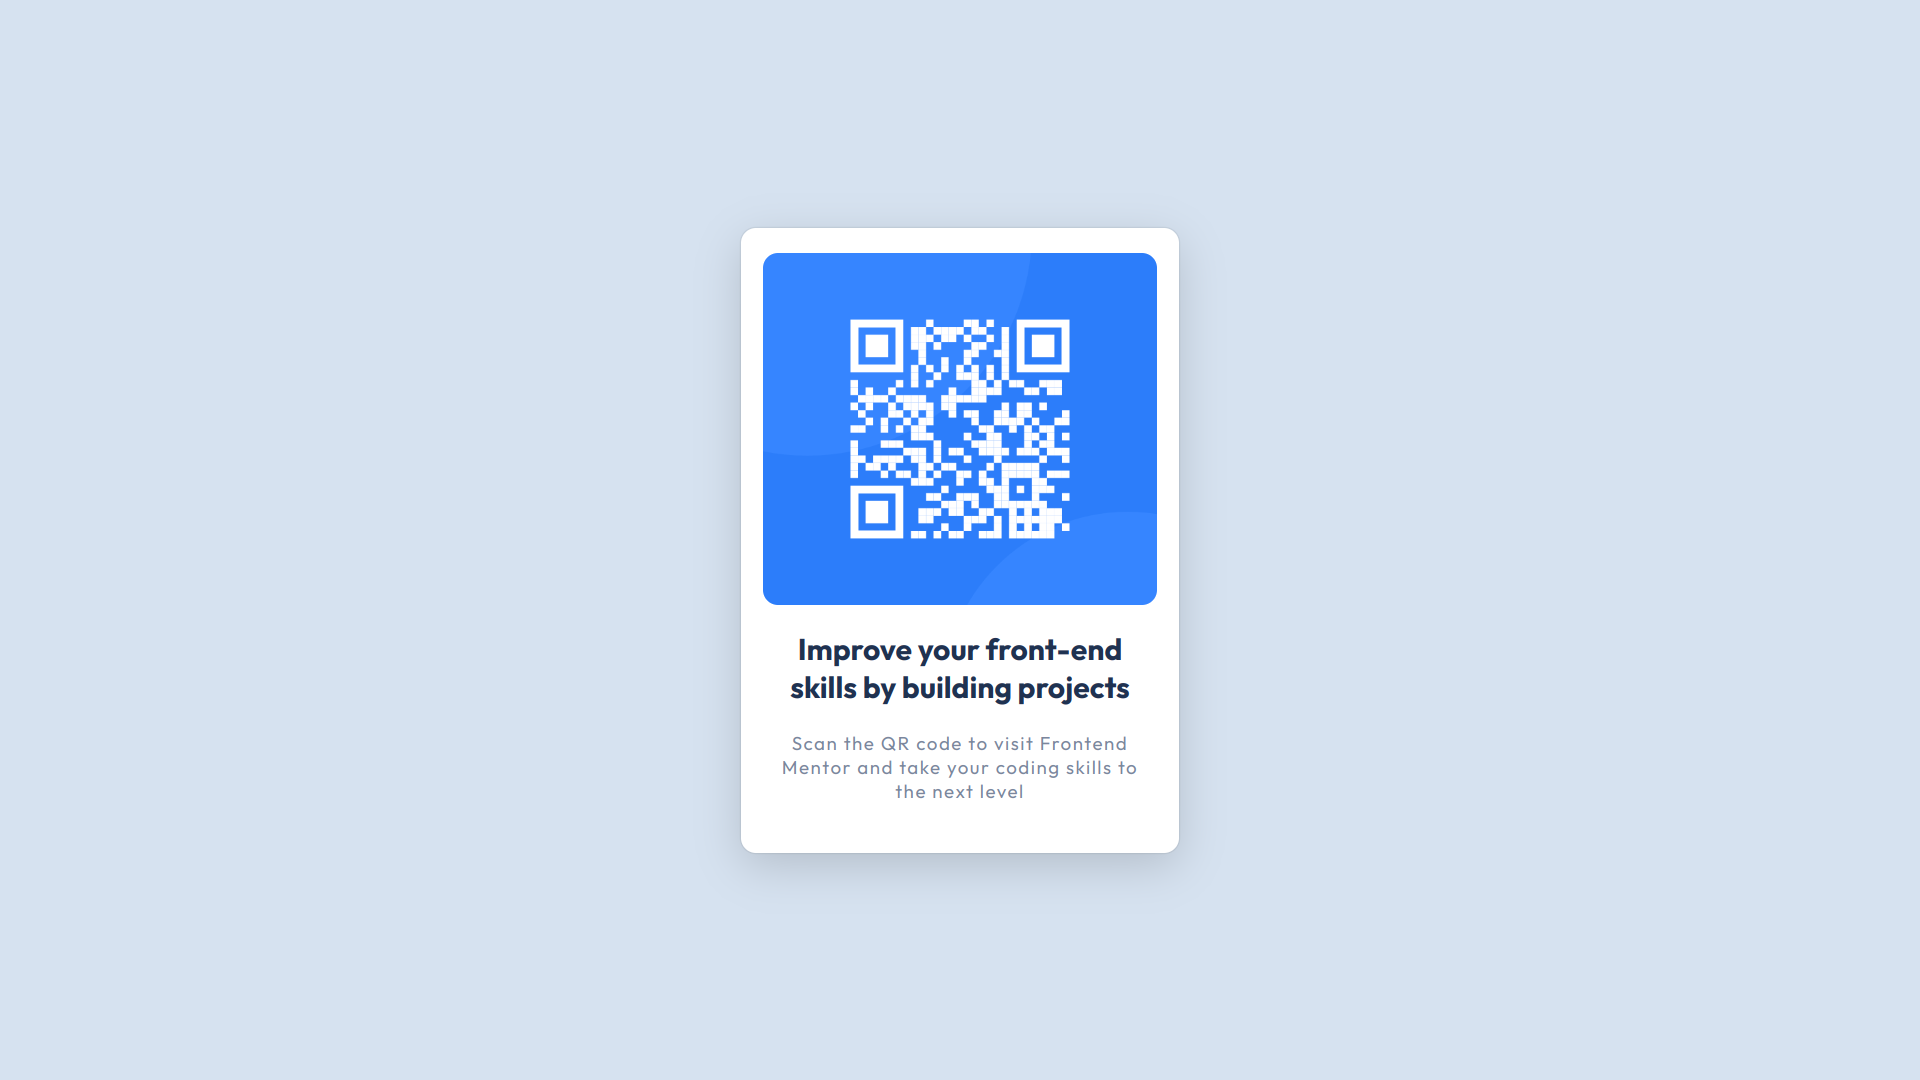
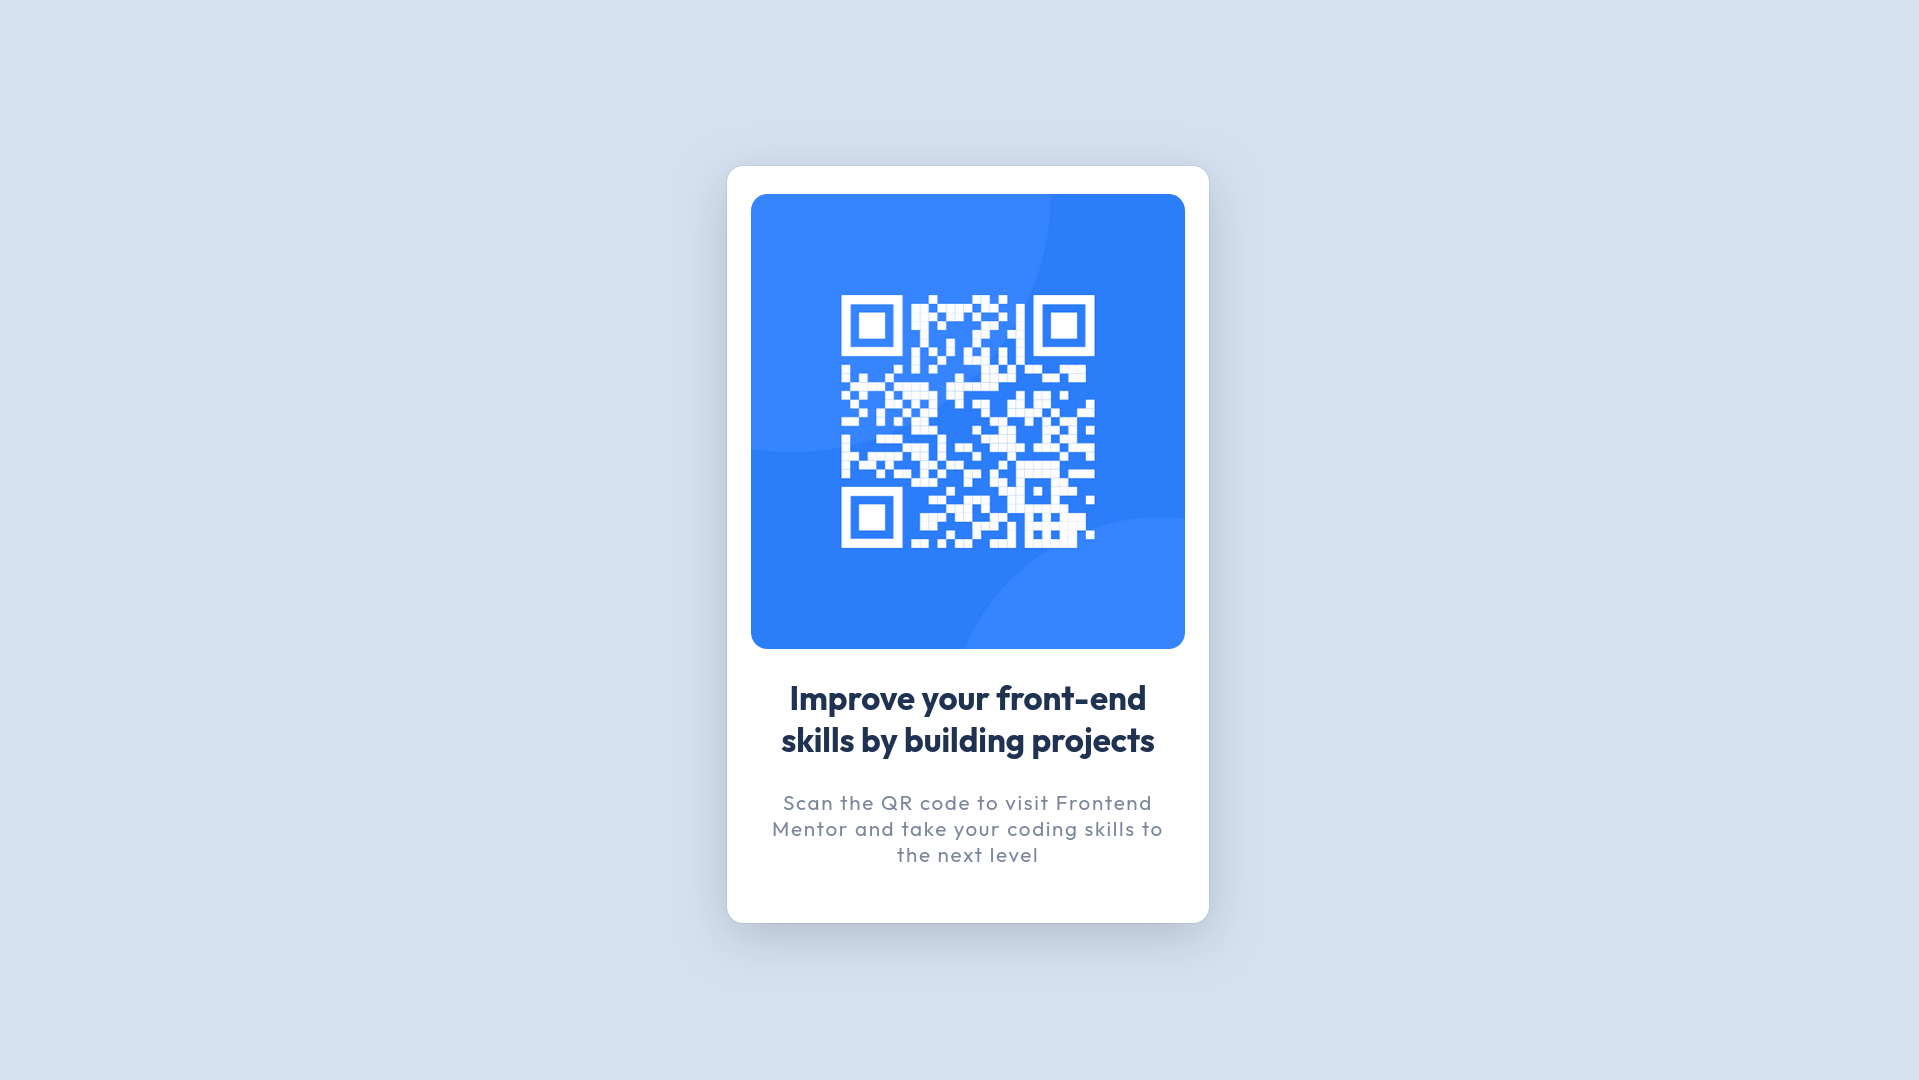
Clean up README.md and update screenshot

Changed region(s): [[0.3689, 0.1528, 0.6456, 0.8861]]

diff --git a/README.md b/README.md
@@ -4,28 +4,9 @@ This is a solution to the [QR code component challenge on Frontend Mentor](https
 
 ### Live version [here](https://mannyoii.github.io/qr-code-component-main/)
 
-## Table of contents
-
-- [Overview](#overview)
-  - [Screenshot](#screenshot)
-  - [Links](#links)
-- [My process](#my-process)
-  - [Built with](#built-with)
-  - [What I learned](#what-i-learned)
-  - [Continued development](#continued-development)
-  - [Useful resources](#useful-resources)
-- [Author](#author)
-- [Acknowledgments](#acknowledgments)
-
-**Note: Delete this note and update the table of contents based on what sections you keep.**
-
-## Overview
-
 ### Screenshot
 
 ![](./images/screenshot.png)
-
-Add a screenshot of your solution. The easiest way to do this is to use Firefox to view your project, right-click the page and select "Take a Screenshot". You can choose either a full-height screenshot or a cropped one based on how long the page is. If it's very long, it might be best to crop it.
 
 ### Links
 
@@ -34,68 +15,21 @@ Add a screenshot of your solution. The easiest way to do this is to use Firefox 
 
 ## My process
 
+- Started with the HTML structure first and then styling with the CSS, with responsive design in mind.
+
 ### Built with
 
 - Semantic HTML5 markup
 - CSS custom properties
 - Flexbox
-<!-- - CSS Grid -->
 - Mobile-first workflow
-  <!-- - [React](https://reactjs.org/) - JS library -->
-  <!-- - [Next.js](https://nextjs.org/) - React framework -->
-- [Styled Components](https://styled-components.com/) - For styles
-
-**Note: These are just examples. Delete this note and replace the list above with your own choices**
 
 ### What I learned
 
-Use this section to recap over some of your major learnings while working through this project. Writing these out and providing code samples of areas you want to highlight is a great way to reinforce your own knowledge.
-
-To see how you can add code snippets, see below:
-
-```html
-<h1>Some HTML code I'm proud of</h1>
-```
-
-```css
-.proud-of-this-css {
-  color: papayawhip;
-}
-```
-
-```js
-const proudOfThisFunc = () => {
-  console.log("🎉");
-};
-```
-
-If you want more help with writing markdown, we'd recommend checking out [The Markdown Guide](https://www.markdownguide.org/) to learn more.
-
-**Note: Delete this note and the content within this section and replace with your own learnings.**
-
-### Continued development
-
-Use this section to outline areas that you want to continue focusing on in future projects. These could be concepts you're still not completely comfortable with or techniques you found useful that you want to refine and perfect.
-
-**Note: Delete this note and the content within this section and replace with your own plans for continued development.**
-
-### Useful resources
-
-- [Example resource 1](https://www.example.com) - This helped me for XYZ reason. I really liked this pattern and will use it going forward.
-- [Example resource 2](https://www.example.com) - This is an amazing article which helped me finally understand XYZ. I'd recommend it to anyone still learning this concept.
-
-**Note: Delete this note and replace the list above with resources that helped you during the challenge. These could come in handy for anyone viewing your solution or for yourself when you look back on this project in the future.**
+- The layouts and positioning.
 
 ## Author
 
 - Website - [Add your name here](https://www.your-site.com)
 - Frontend Mentor - [@yourusername](https://www.frontendmentor.io/profile/yourusername)
 - Twitter - [@yourusername](https://www.twitter.com/yourusername)
-
-**Note: Delete this note and add/remove/edit lines above based on what links you'd like to share.**
-
-## Acknowledgments
-
-This is where you can give a hat tip to anyone who helped you out on this project. Perhaps you worked in a team or got some inspiration from someone else's solution. This is the perfect place to give them some credit.
-
-**Note: Delete this note and edit this section's content as necessary. If you completed this challenge by yourself, feel free to delete this section entirely.**
